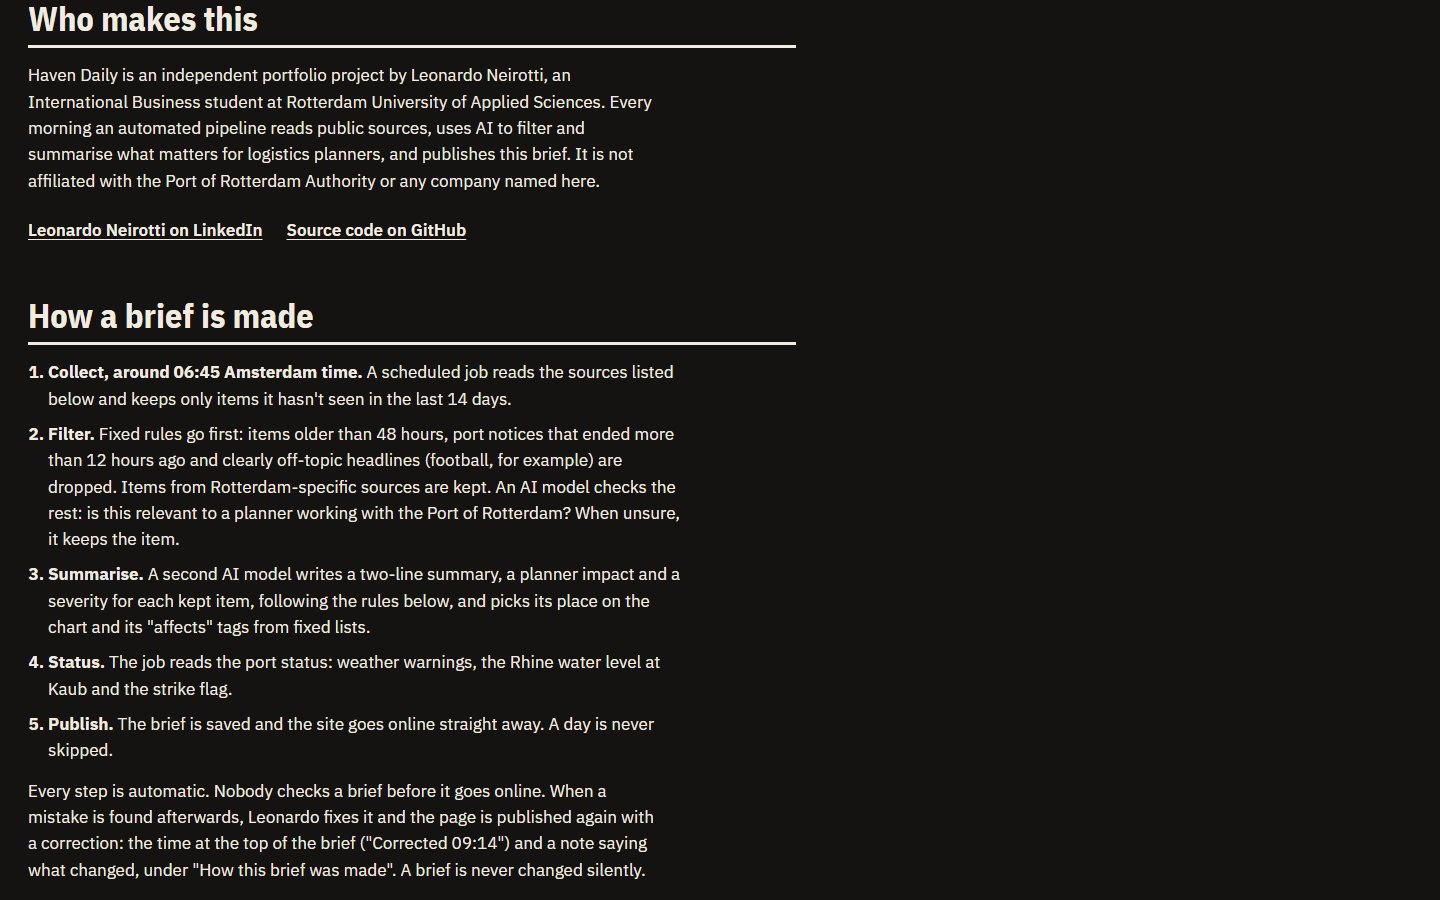
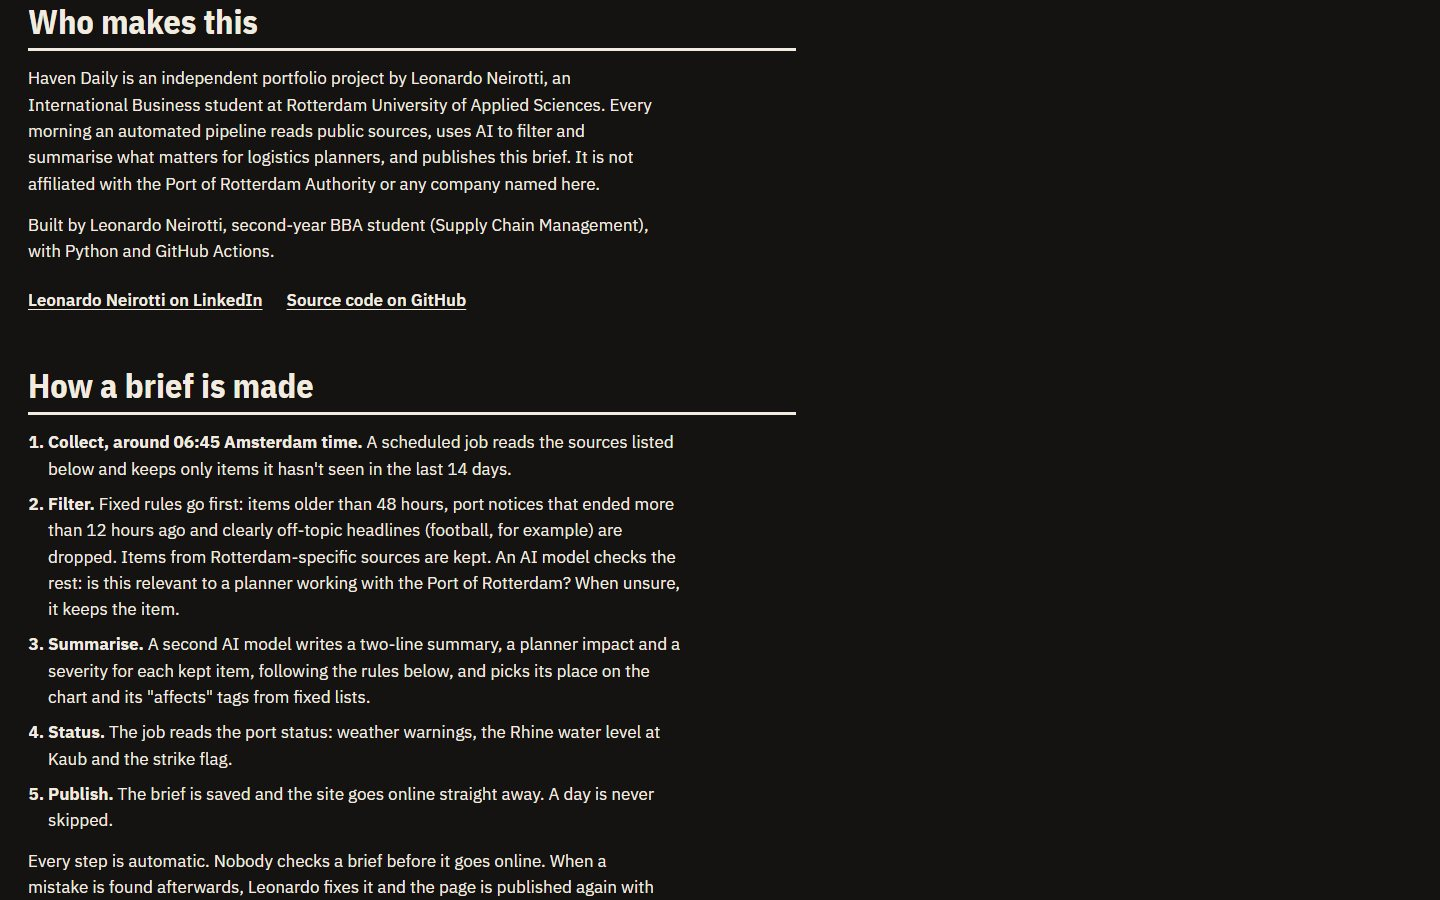
"Who makes this": the owner's "Built by" line under the About text; defaults confirmed (#86, PR #93)
Test first: the line follows the About text exactly on "How it works" (failed before). The
line lives in SITE["built_by"]. Spec §7.8: defaults 1, 2, 4, 5 confirmed by the owner, 3 changed
by the owner (3 Nov 2026, PR #93); MeteoAlarm's disclaimer was already on every weather dial,
nothing added. Screenshots of "Who makes this" retaken.

Changed region(s): [[0.0, 0.2489, 0.5312, 0.9956], [0.0, 0.0, 0.5625, 0.2178]]

diff --git a/templates/about.html b/templates/about.html
@@ -46,6 +46,7 @@
     <section aria-labelledby="maker">
       <h2 id="maker">Who makes this</h2>
       <p>{{ site.about }}</p>
+      <p>{{ site.built_by }}</p>
       <ul class="about-links">
         <li><a href="{{ site.linkedin_url }}">{{ site.author }} on LinkedIn</a></li>
         <li><a href="{{ site.repo_url }}">Source code on GitHub</a></li>

diff --git a/tests/test_who_and_links.py b/tests/test_who_and_links.py
@@ -23,6 +23,9 @@ ABOUT = ("Haven Daily is an independent portfolio project by Leonardo Neirotti, 
          "student at Rotterdam University of Applied Sciences. Every morning an automated pipeline reads public "
          "sources, uses AI to filter and summarise what matters for logistics planners, and publishes this brief. "
          "It is not affiliated with the Port of Rotterdam Authority or any company named here.")
+# Under the About text in "Who makes this" (owner, 3 Nov 2026, PR #93: default 3).
+BUILT_BY = ("Built by Leonardo Neirotti, second-year BBA student (Supply Chain Management), "
+            "with Python and GitHub Actions.")
 LINKEDIN = "https://www.linkedin.com/in/leonardo-neirotti"
 REPO = "https://github.com/leonardoneirotti/haven-daily"
 
@@ -135,6 +138,11 @@ def test_who_makes_this_is_the_about_text_with_both_links(how):
     maker = part(how, r'<section aria-labelledby="maker">.*?</section>')
     assert ABOUT in text_of(maker)
     assert {LINKEDIN, REPO} <= links(maker)
+
+
+def test_who_makes_this_adds_the_built_by_line_right_under_the_about_text(how):
+    maker = text_of(part(how, r'<section aria-labelledby="maker">.*?</section>'))
+    assert ABOUT + " " + BUILT_BY in maker
 
 
 def about_block(page: str) -> str | None:

diff --git a/haven/render.py b/haven/render.py
@@ -42,6 +42,9 @@ SITE = {
               "student at Rotterdam University of Applied Sciences. Every morning an automated pipeline reads "
               "public sources, uses AI to filter and summarise what matters for logistics planners, and publishes "
               "this brief. It is not affiliated with the Port of Rotterdam Authority or any company named here."),
+    # Under the About text in "Who makes this" (owner, 3 Nov 2026, PR #93).
+    "built_by": ("Built by Leonardo Neirotti, second-year BBA student (Supply Chain Management), "
+                 "with Python and GitHub Actions."),
     # Footer of every page, "How it works" and the Today page's About block (#86). #28 later moves
     # them into its site config with the base URL.
     "linkedin_url": "https://www.linkedin.com/in/leonardo-neirotti",

diff --git a/docs/SPEC.md b/docs/SPEC.md
@@ -1171,13 +1171,14 @@ The review (`docs/design-review.md`) found why the site didn't feel user-friendl
 - About text (Today page and "How it works"): *"Haven Daily is an independent portfolio project by Leonardo Neirotti, an International Business student at Rotterdam University of Applied Sciences. Every morning an automated pipeline reads public sources, uses AI to filter and summarise what matters for logistics planners, and publishes this brief. It is not affiliated with the Port of Rotterdam Authority or any company named here."*
 - Links: LinkedIn `https://www.linkedin.com/in/leonardo-neirotti`, repository `https://github.com/leonardoneirotti/haven-daily` (#86 sets them; #28 later moves them into its site config with the base URL).
 
-*Built 3 Nov 2026 (#86).* The two texts and the two links live once, in `SITE` in `haven/render.py` (`tagline`, `about`, `linkedin_url`, `repo_url`); `tests/test_who_and_links.py` checks the texts exactly on every page. The nav item, the page title and the footer link say "How it works"; the file stays `about.html`, so old links keep working. *Claude's defaults, not yet confirmed by the owner:*
+*Built 3 Nov 2026 (#86).* The owner's texts and the two links live once, in `SITE` in `haven/render.py` (`tagline`, `about`, `built_by`, `linkedin_url`, `repo_url`); `tests/test_who_and_links.py` checks the texts exactly on every page. The nav item, the page title and the footer link say "How it works"; the file stays `about.html`, so old links keep working. *Proposed by Claude; 1, 2, 4 and 5 confirmed by the owner, 3 changed by the owner (3 Nov 2026, PR #93):*
 1. **About block on the Today page only** (`index.html`), right below the brief (items and port status), before the ship list and "How this brief was made"; heading "About this project"; links "Leonardo Neirotti on LinkedIn", "Source code on GitHub", "How it works". Past day pages (`days/…`, including today's) don't repeat it: they have the one-liner, the footer links and "How it works" in the nav.
 2. **The one-liner** is its own line under the brand row, above the sample-data note, in the secondary ink colour (`--ink-2`), 14 px. On a phone it takes two lines, so the brief starts ~48 px lower.
-3. **"Who makes this" is the About text alone**, replacing the earlier text (which added "second-year BBA … (Supply Chain Management)" and "built with Python and GitHub Actions, with Claude models"; the models are named under "The AI models").
+3. **"Who makes this" is the About text, then one short line in the owner's words** (owner, 3 Nov 2026, PR #93): *"Built by Leonardo Neirotti, second-year BBA student (Supply Chain Management), with Python and GitHub Actions."* It replaces the earlier text; the AI models are named under "The AI models". The line is on "How it works" only, not in the Today page's About block.
 4. **The contents list** is numbered, two columns on wide screens, one entry per section in page order, worded like its heading (tested).
 5. **Footer link words:** "How it works" (was "Method and sources") and "Source code on GitHub" (was "Source code").
-6. The `<meta name="description">` is unchanged.
+6. The `<meta name="description">` is unchanged. *(Claude's, not part of the confirmation.)*
+- **MeteoAlarm's disclaimer** was already on the weather dial of every day page (its full text, verbatim, with the "KNMI via MeteoAlarm" link to www.meteoalarm.org, §5.3 "Weather dial"), and in "Weather warnings" on "How it works"; checked again in PR #93, nothing added.
 
 **Not in v1:** M6 (news labels on the chart styled apart from place names) → "Later" (§10); L1 (an English line under Dutch headline-only items) → v2 ideas (§9), because it needs a rule decision first.
 
